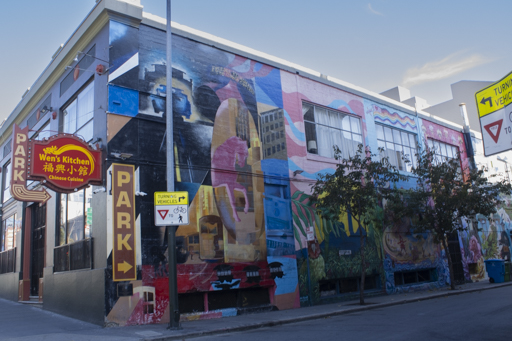
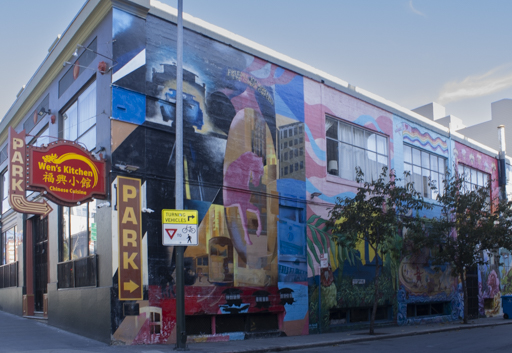
Updated photos. Fixed font-awesome inclide url. Remove Sponsor.

diff --git a/index.html b/index.html
@@ -40,21 +40,6 @@ layout: default
                     <p>{{ site.footer.github }}</p>
                 </section>
                 <section>
-                    <h2>Sponsor</h2>
-                    <div class="presentify">
-                        <div class="presentify-logo">
-                            <a href="https://presentifyapp.com">
-                                <img src="https://raw.githubusercontent.com/rampatra/assets/refs/heads/main/Presentify/Icons/icon_512.png"
-                                 alt="presentify-logo" />
-                            </a>
-                        </div>
-                        <div class="presentify-text">
-                            Turn your screen into a canvas when on video calls and articulate your thoughts better than
-                            ever with the <a href="https://presentifyapp.com">Presentify</a> app.
-                        </div>
-                    </div>
-                </section>
-                <section>
                     <h2>Follow me on ...</h2>
                     <ul class="icons">
                         {% if site.social_urls.facebook %}

diff --git a/_includes/header.html b/_includes/header.html
@@ -7,7 +7,7 @@
 <noscript><link rel="stylesheet" href="assets/css/noscript.min.css" /></noscript>
 <link rel="stylesheet" href="assets/css/custom.min.css" />
 
-<link rel="stylesheet" href="/assets/css/fontawesome-all.min.css">
+<link rel="stylesheet" href="assets/css/fontawesome-all.min.css">
 
 <link rel="preconnect" href="https://fonts.googleapis.com">
 <link rel="preconnect" href="https://fonts.gstatic.com" crossorigin>
